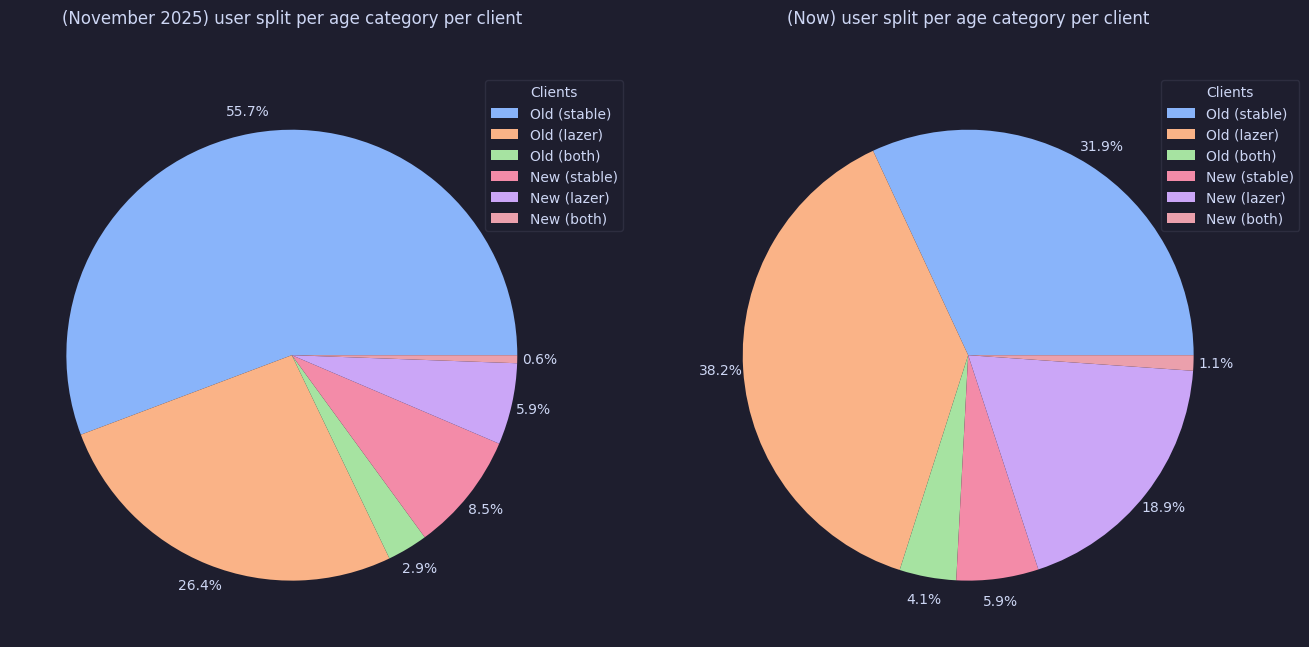
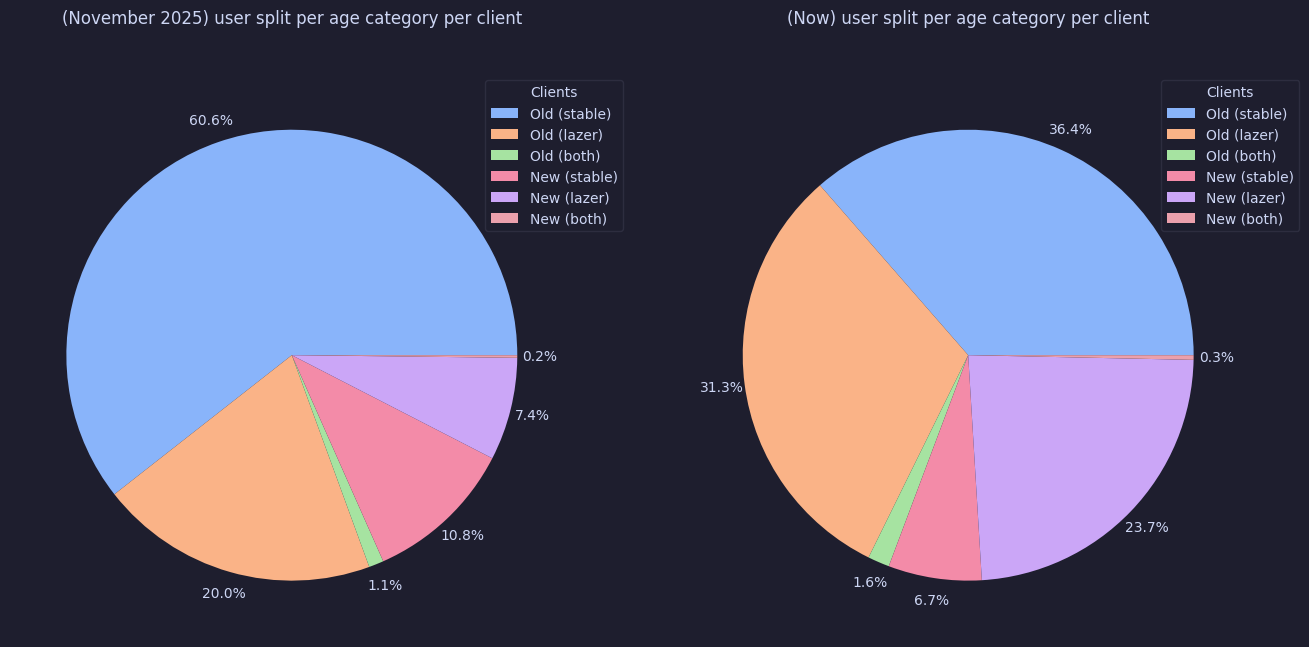
fix: use the correct chart for old account ratio shift

diff --git a/public/posts/osu-lazer-and-lying-with-statistics/index.html b/public/posts/osu-lazer-and-lying-with-statistics/index.html
@@ -134,7 +134,7 @@ The title of the post is related to a silly phenomenon - osu! players, especiall
   <h1 class="post-title">
     <a href="/posts/osu-lazer-and-lying-with-statistics/">osu!lazer and lying with statistics</a>
   </h1>
-  <div class="post-meta"><time class="post-date">2026-07-14</time><span class="post-reading-time">9 min read (1726 words)</span></div>
+  <div class="post-meta"><time class="post-date">2026-07-14</time><span class="post-reading-time">9 min read (1721 words)</span></div>
 
   
   
@@ -265,7 +265,10 @@ The title of the post is related to a silly phenomenon - osu! players, especiall
 
 
 <p>The friend request was followed up by peppy doing a very kind gesture of filling a missing piece I&rsquo;ve had in all my data collection efforts - client adoption based on user ranks. I wanted to collect this data myself, but deemed it not feasible without practically DDoS-ing osu! API.</p>
-<p>&laquo; image src=&quot;/img/lazer/ppy_rank_chart.png&quot; position=&ldquo;center&rdquo; &raquo;</p>
+
+<img src="/img/lazer/ppy_rank_chart.png"  class="center"    />
+
+
 <p>As you can see, client adoption is even more complicated than this! This data (as collected in two weeks somewhere in May or June) shows that a lot of higher ranked players are split between the clients, which is something some people predicted (and honestly makes sense).</p>
 <h2 id="thoughts">Thoughts<a href="#thoughts" class="hanchor" ariaLabel="Anchor">#</a> </h2>
 <p>Honestly, I&rsquo;m tired of this stupid culture war. I&rsquo;m tired of both sides calling the other half names, I&rsquo;m tired of lazer players mocking stable players for being outdated, I&rsquo;m tired of stable players insulting peppy for not updating stable, I&rsquo;m tired of everyone saying negative things without second thought. This is what brings the divide - not the client, not the features, but people being angry for no good reason.</p>

diff --git a/public/index.html b/public/index.html
@@ -1,7 +1,7 @@
 <!DOCTYPE html>
 <html lang="en">
 <head>
-	<meta name="generator" content="Hugo 0.163.3">
+	<meta name="generator" content="Hugo 0.164.0">
   
     <title>Terminal</title>
   